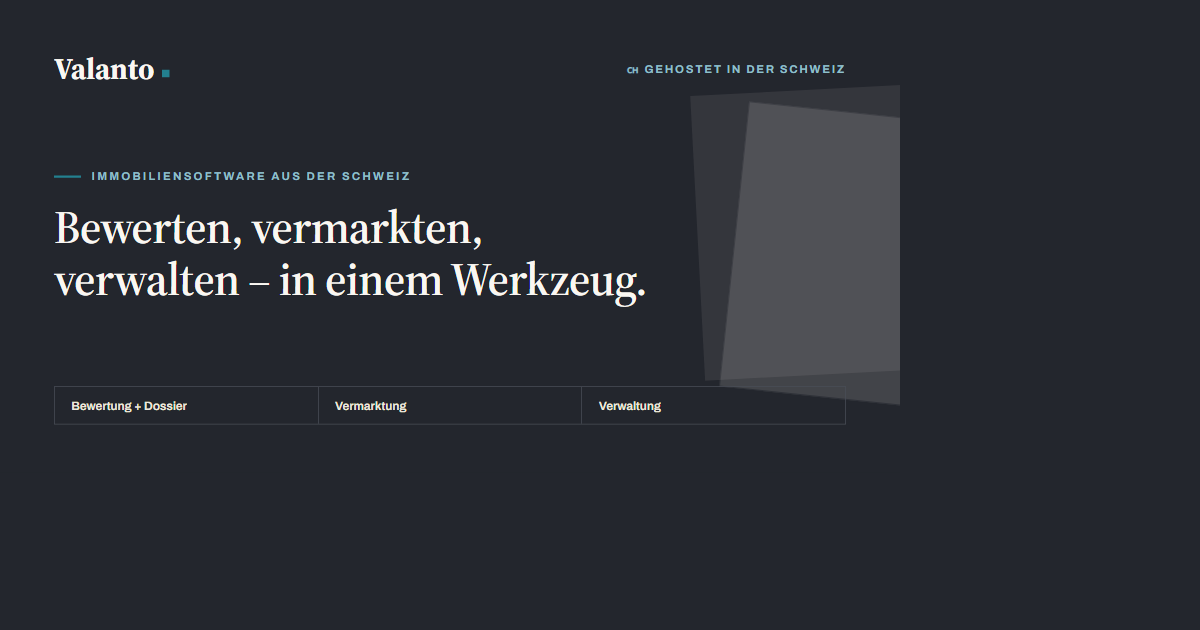
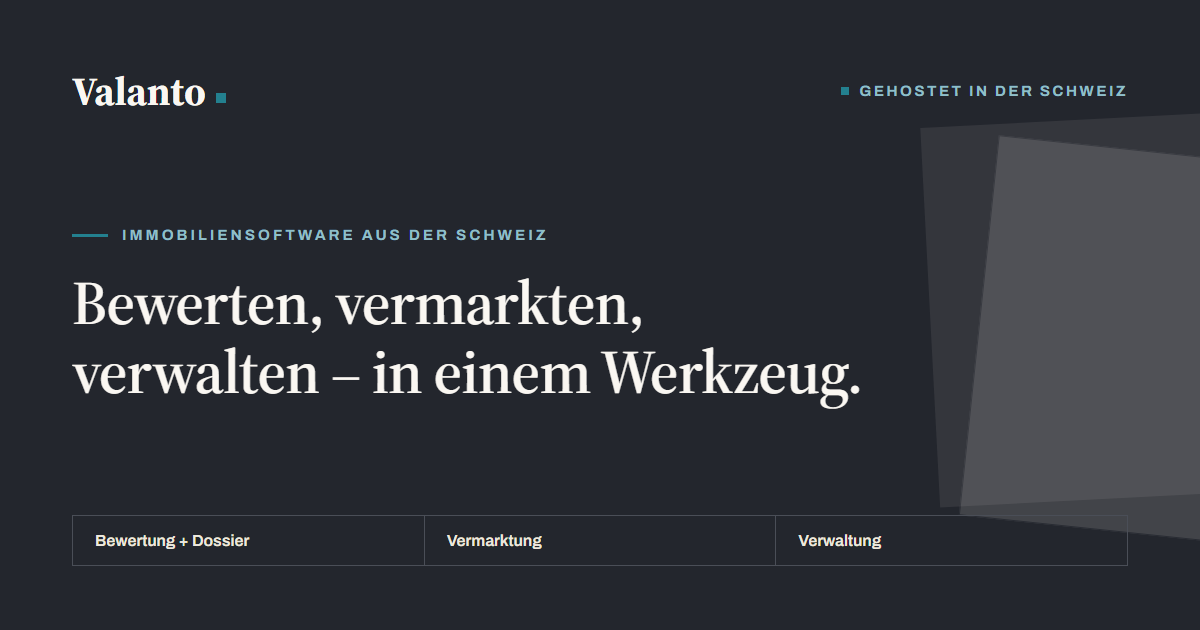
OG-Bild ohne Emoji neu gerendert
- Flaggen-Emoji durch Petrol-Quadrat ersetzt (greift den Marken-Punkt auf,
  rendert zuverlässig ohne Farb-Emoji-Font)
- og-image-source.html als echte 1200x630-Render-Quelle (Design-Tool-Scaler entfernt)

diff --git a/og-image-source.html b/og-image-source.html
@@ -6,20 +6,22 @@
 <link rel="preconnect" href="https://fonts.gstatic.com" crossorigin>
 <link href="https://fonts.googleapis.com/css2?family=Archivo:wght@400;600;700&family=Source+Serif+4:opsz,wght@8..60,600;8..60,700&display=swap" rel="stylesheet">
 <style>
+  /* Render source for public/og-image.png — renders at TRUE 1200x630.
+     Regenerate with:
+     chrome --headless=new --window-size=1200,630 --force-device-scale-factor=1
+       --virtual-time-budget=8000 --screenshot=public/og-image.png og-image-source.html */
   html,body{margin:0;padding:0;background:#23262D}
-  #scaler{width:900px;height:472.5px;overflow:hidden}
-  #og-image{width:1200px;height:630px;transform:scale(0.75);transform-origin:top left;box-sizing:border-box;background:#23262D;font-family:'Archivo',sans-serif;color:#EDE8DE;position:relative;overflow:hidden;display:flex;flex-direction:column;justify-content:space-between;padding:64px 72px}
+  #og-image{width:1200px;height:630px;box-sizing:border-box;background:#23262D;font-family:'Archivo',sans-serif;color:#EDE8DE;position:relative;overflow:hidden;display:flex;flex-direction:column;justify-content:space-between;padding:64px 72px}
 </style>
 </head>
 <body>
-  <div id="scaler">
   <div id="og-image">
     <div style="display:flex;align-items:center;justify-content:space-between;position:relative;z-index:2">
       <div style="display:flex;align-items:baseline;gap:10px">
         <div style="font-family:'Source Serif 4',serif;font-weight:700;font-size:40px;color:#FAF7F2">Valanto</div>
         <div style="width:10px;height:10px;background:#23808F;transform:translateY(-2px)"></div>
       </div>
-      <div style="font-size:15px;font-weight:700;letter-spacing:0.16em;color:#8FBFC8">🇨🇭 GEHOSTET IN DER SCHWEIZ</div>
+      <div style="display:flex;align-items:center;gap:10px;font-size:15px;font-weight:700;letter-spacing:0.16em;color:#8FBFC8"><span style="width:8px;height:8px;background:#23808F;display:inline-block"></span>GEHOSTET IN DER SCHWEIZ</div>
     </div>
     <div style="position:relative;z-index:2;display:flex;flex-direction:column;gap:26px;max-width:820px">
       <div style="display:flex;align-items:center;gap:14px">
@@ -35,7 +37,6 @@
     </div>
     <div style="position:absolute;top:150px;right:-80px;width:300px;height:380px;background:#FAF7F2;border:1px solid #4A4E57;transform:rotate(6deg);opacity:0.14;z-index:1"></div>
     <div style="position:absolute;top:120px;right:-30px;width:300px;height:380px;background:#FAF7F2;transform:rotate(-3deg);opacity:0.08;z-index:1"></div>
-  </div>
   </div>
 </body>
 </html>